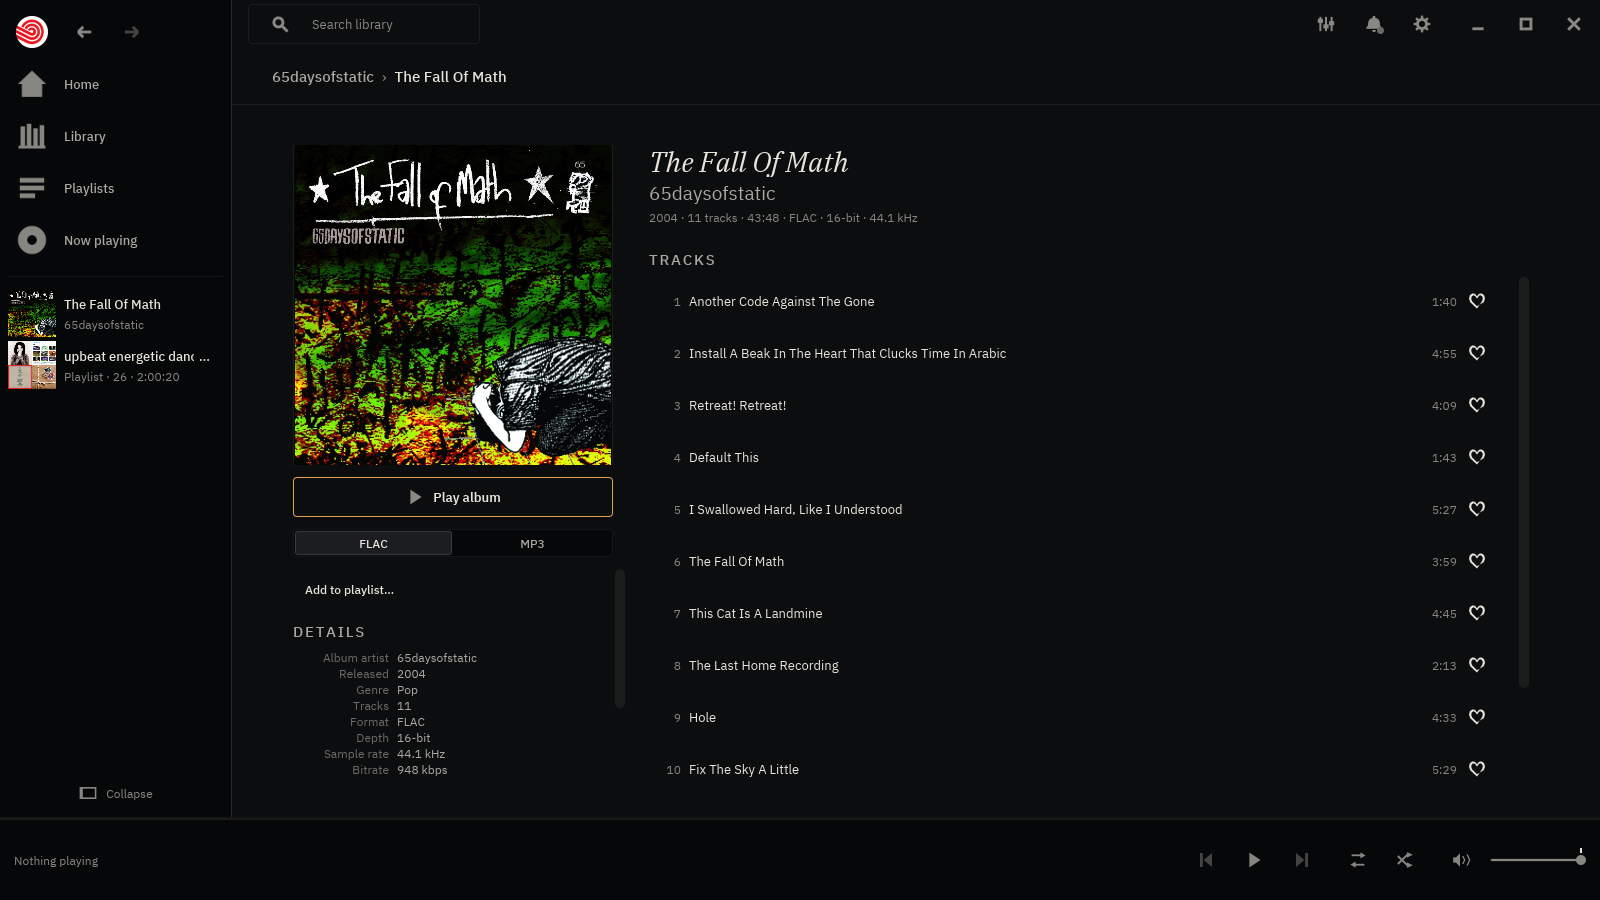
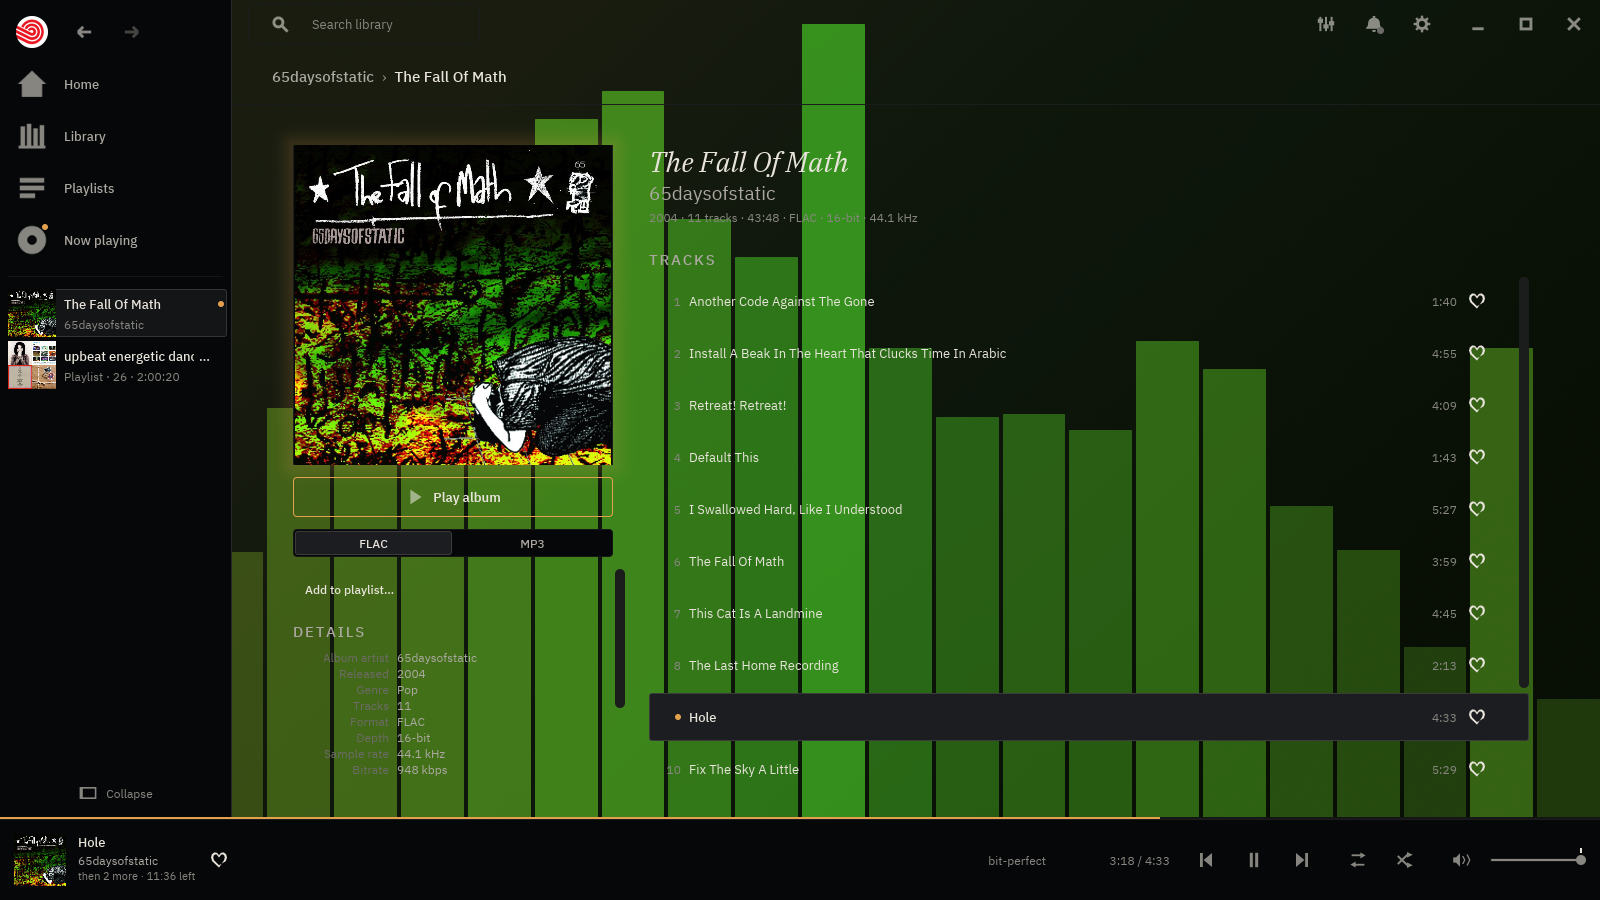
Show themes and immersive playback in README

diff --git a/README.md b/README.md
@@ -18,13 +18,6 @@
 > than left to be discovered. Reports are the point of a beta:
 > [open an issue](https://github.com/mattcree/baz/issues).
 
-foo, bar… baz. The name is an homage and the debt is real: **baz is inspired by
-foobar2000** — instant, correct, no commercial agenda, and the conviction that
-the files on your disk are the point rather than an import step. It is not
-foobar2000 and is not trying to be. What baz borrowed is the posture; the rest
-is its own, including the care the paid players spend on making a collection
-worth looking at, without any of their clouds.
-
 ## What you get
 
 - **Your records on a wall.** Every album you own, with its cover, arranged by
@@ -61,10 +54,12 @@ worth looking at, without any of their clouds.
 |---|---|
 | ![Now playing](docs/screenshots/now-playing.png) | ![A playlist](docs/screenshots/playlist.png) |
 | **Now playing** — cover, rotating jewel case, or a spectrum-led room with no album object. | **Playlists** — the ones you have made, beside Favourites and the way to a new one. Each is an ordinary `.m3u8` on disk. |
-| ![A record's page](docs/screenshots/album.png) | ![Search](docs/screenshots/search.png) |
-| **A record** — the sleeve at size, the run in play order, and both editions the library merged. | **Search** — app-wide, from any place, reaching tracks as well as records. |
-| ![Equalizer](docs/screenshots/equalizer.png) | ![Home](docs/screenshots/home.png) |
-| **Equalizer** — ten bands, a live response curve, safe auto gain, built-in situations and curves you can save. | **Home** — the collection at a glance: all songs, recent additions and the way back to the music. |
+| ![Chromeless, full-screen visualizer](docs/screenshots/now-playing-immersive.png) | ![A record's page](docs/screenshots/album.png) |
+| **Immersive Now Playing** — live spectrum and chromeless presentation, with every control one gesture away. <kbd>F11</kbd> can take the window full screen. | **A record** — the sleeve at size, the run in play order, and both editions the library merged. |
+| ![Search](docs/screenshots/search.png) | ![Equalizer](docs/screenshots/equalizer.png) |
+| **Search** — app-wide, from any place, reaching tracks as well as records. | **Equalizer** — ten bands, a live response curve, safe auto gain, built-in situations and curves you can save. |
+| ![Home](docs/screenshots/home.png) | ![Theme choices](docs/screenshots/themes.png) |
+| **Home** — the collection at a glance: all songs, recent additions and the way back to the music. | **Themes** — sixteen built-in rooms, live palette previews, and a local data-only format for your own. |
 
 ![A smart playlist: draw how it should move](docs/screenshots/smart-playlist.png)
 
